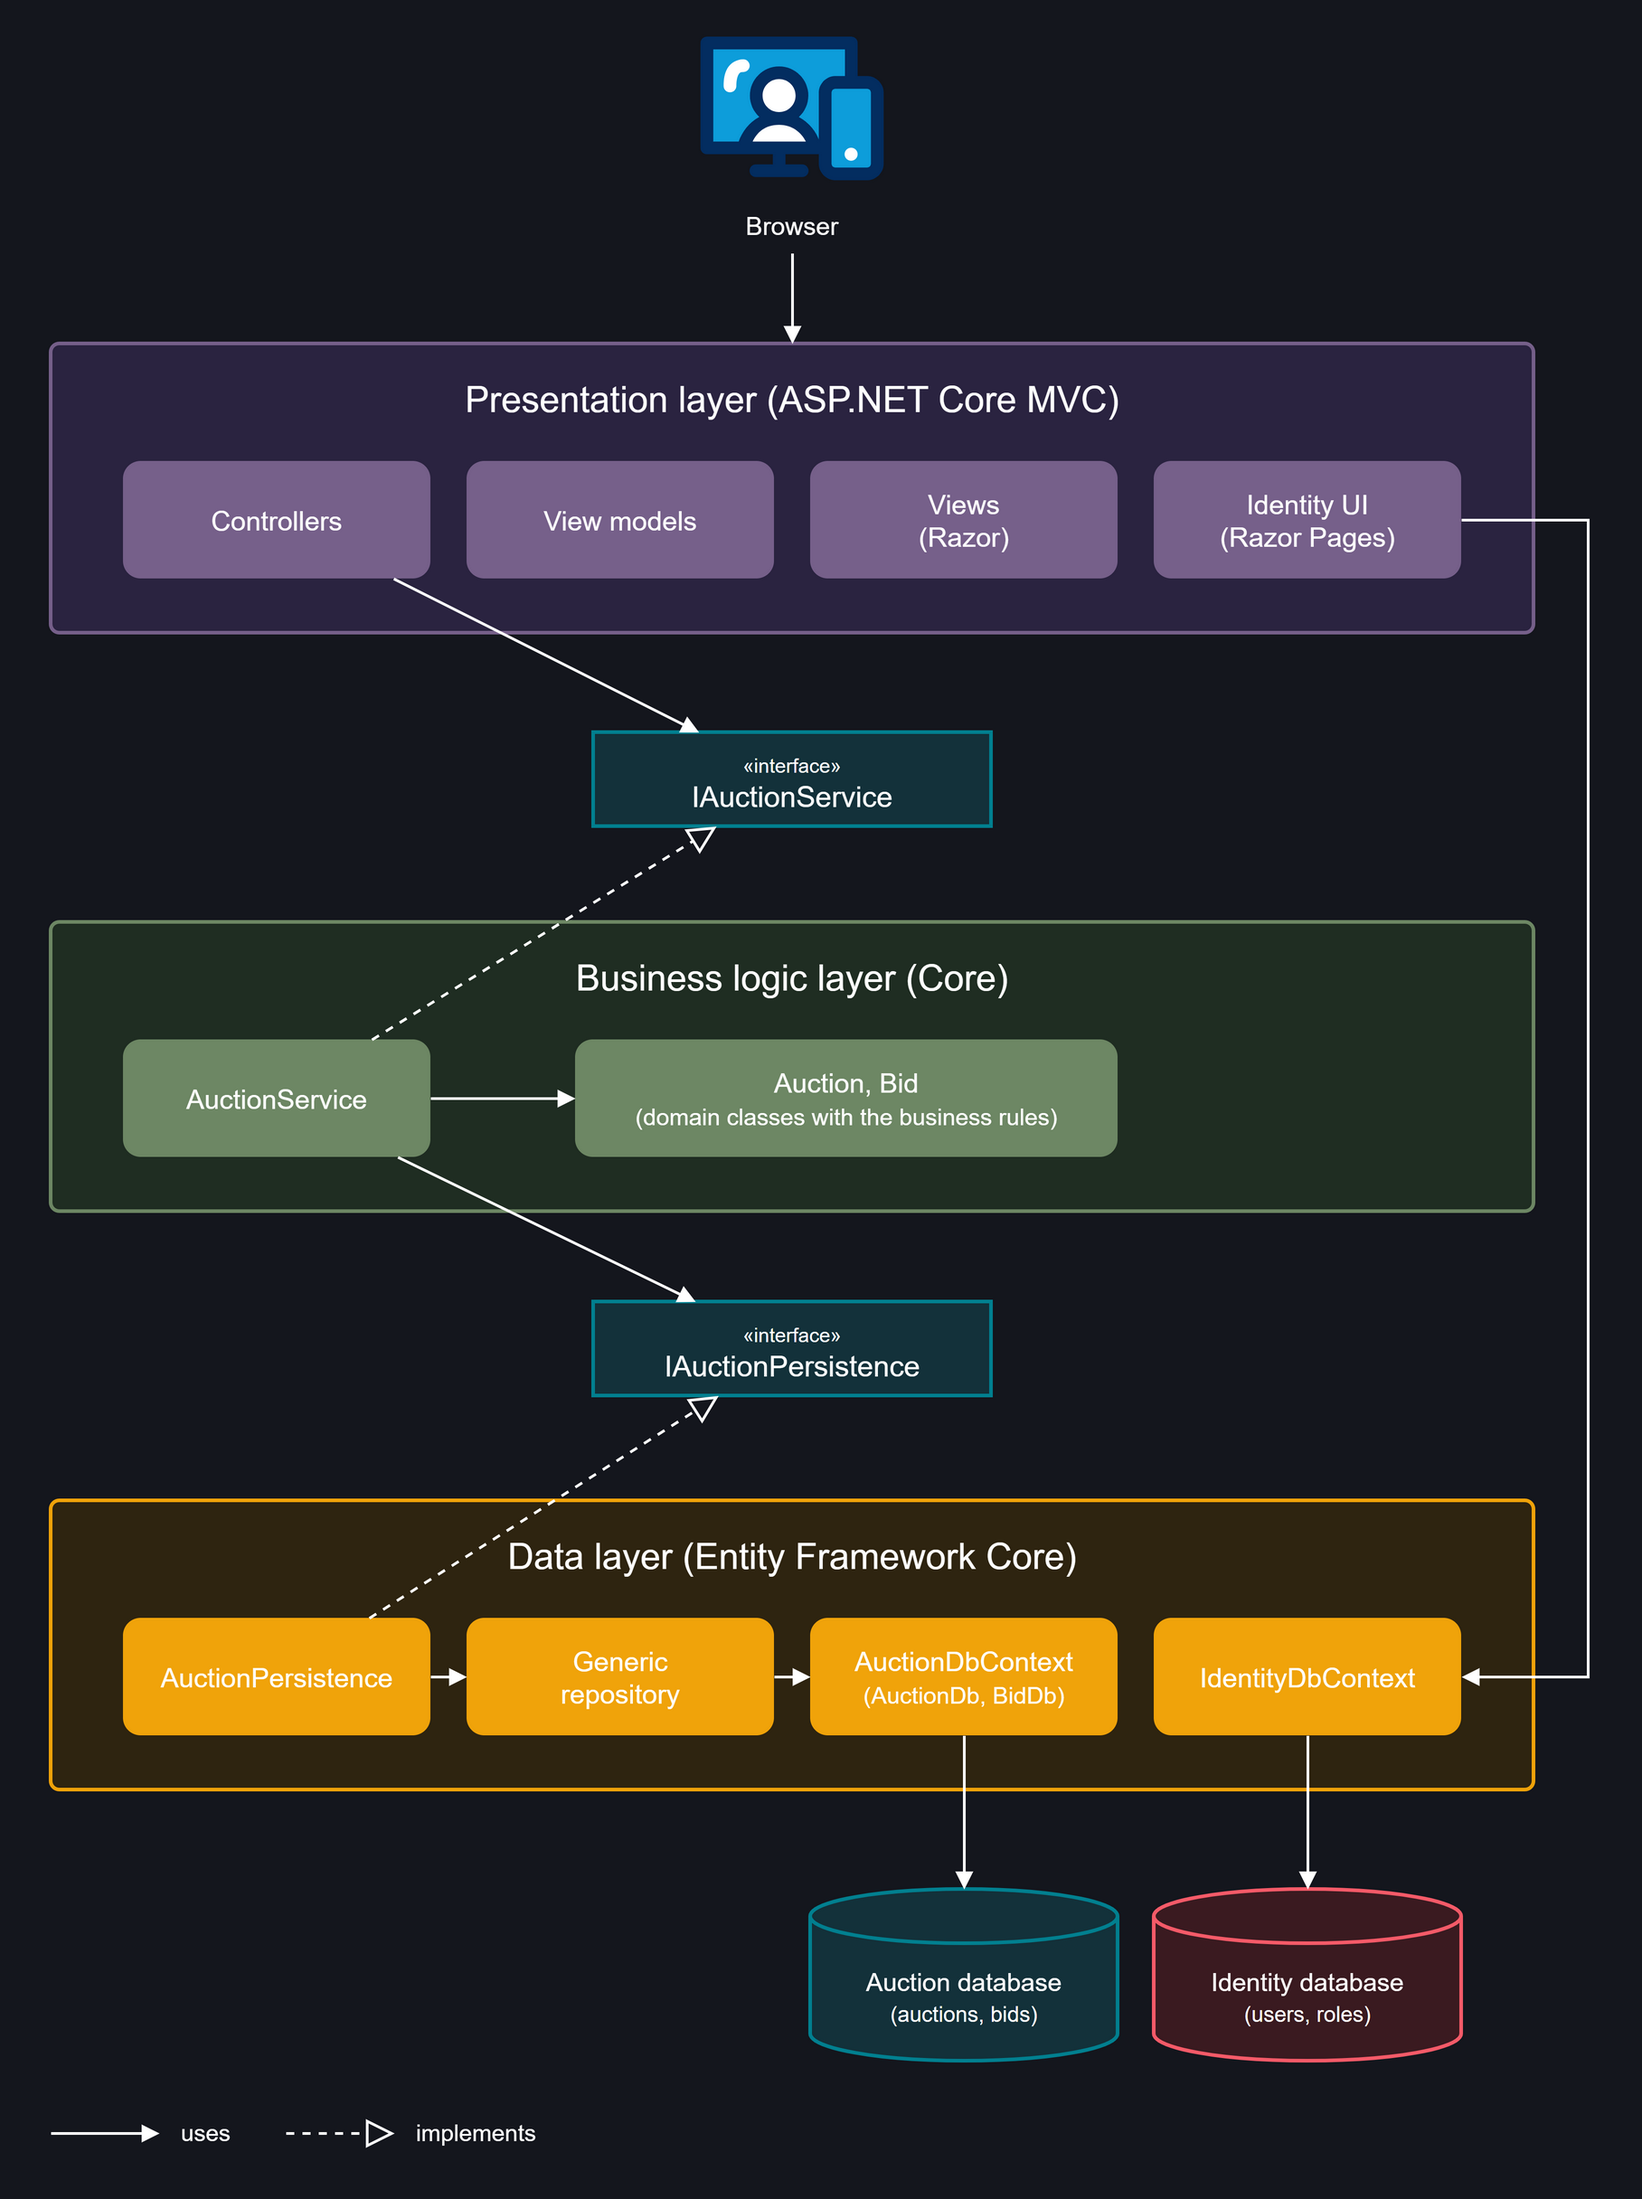
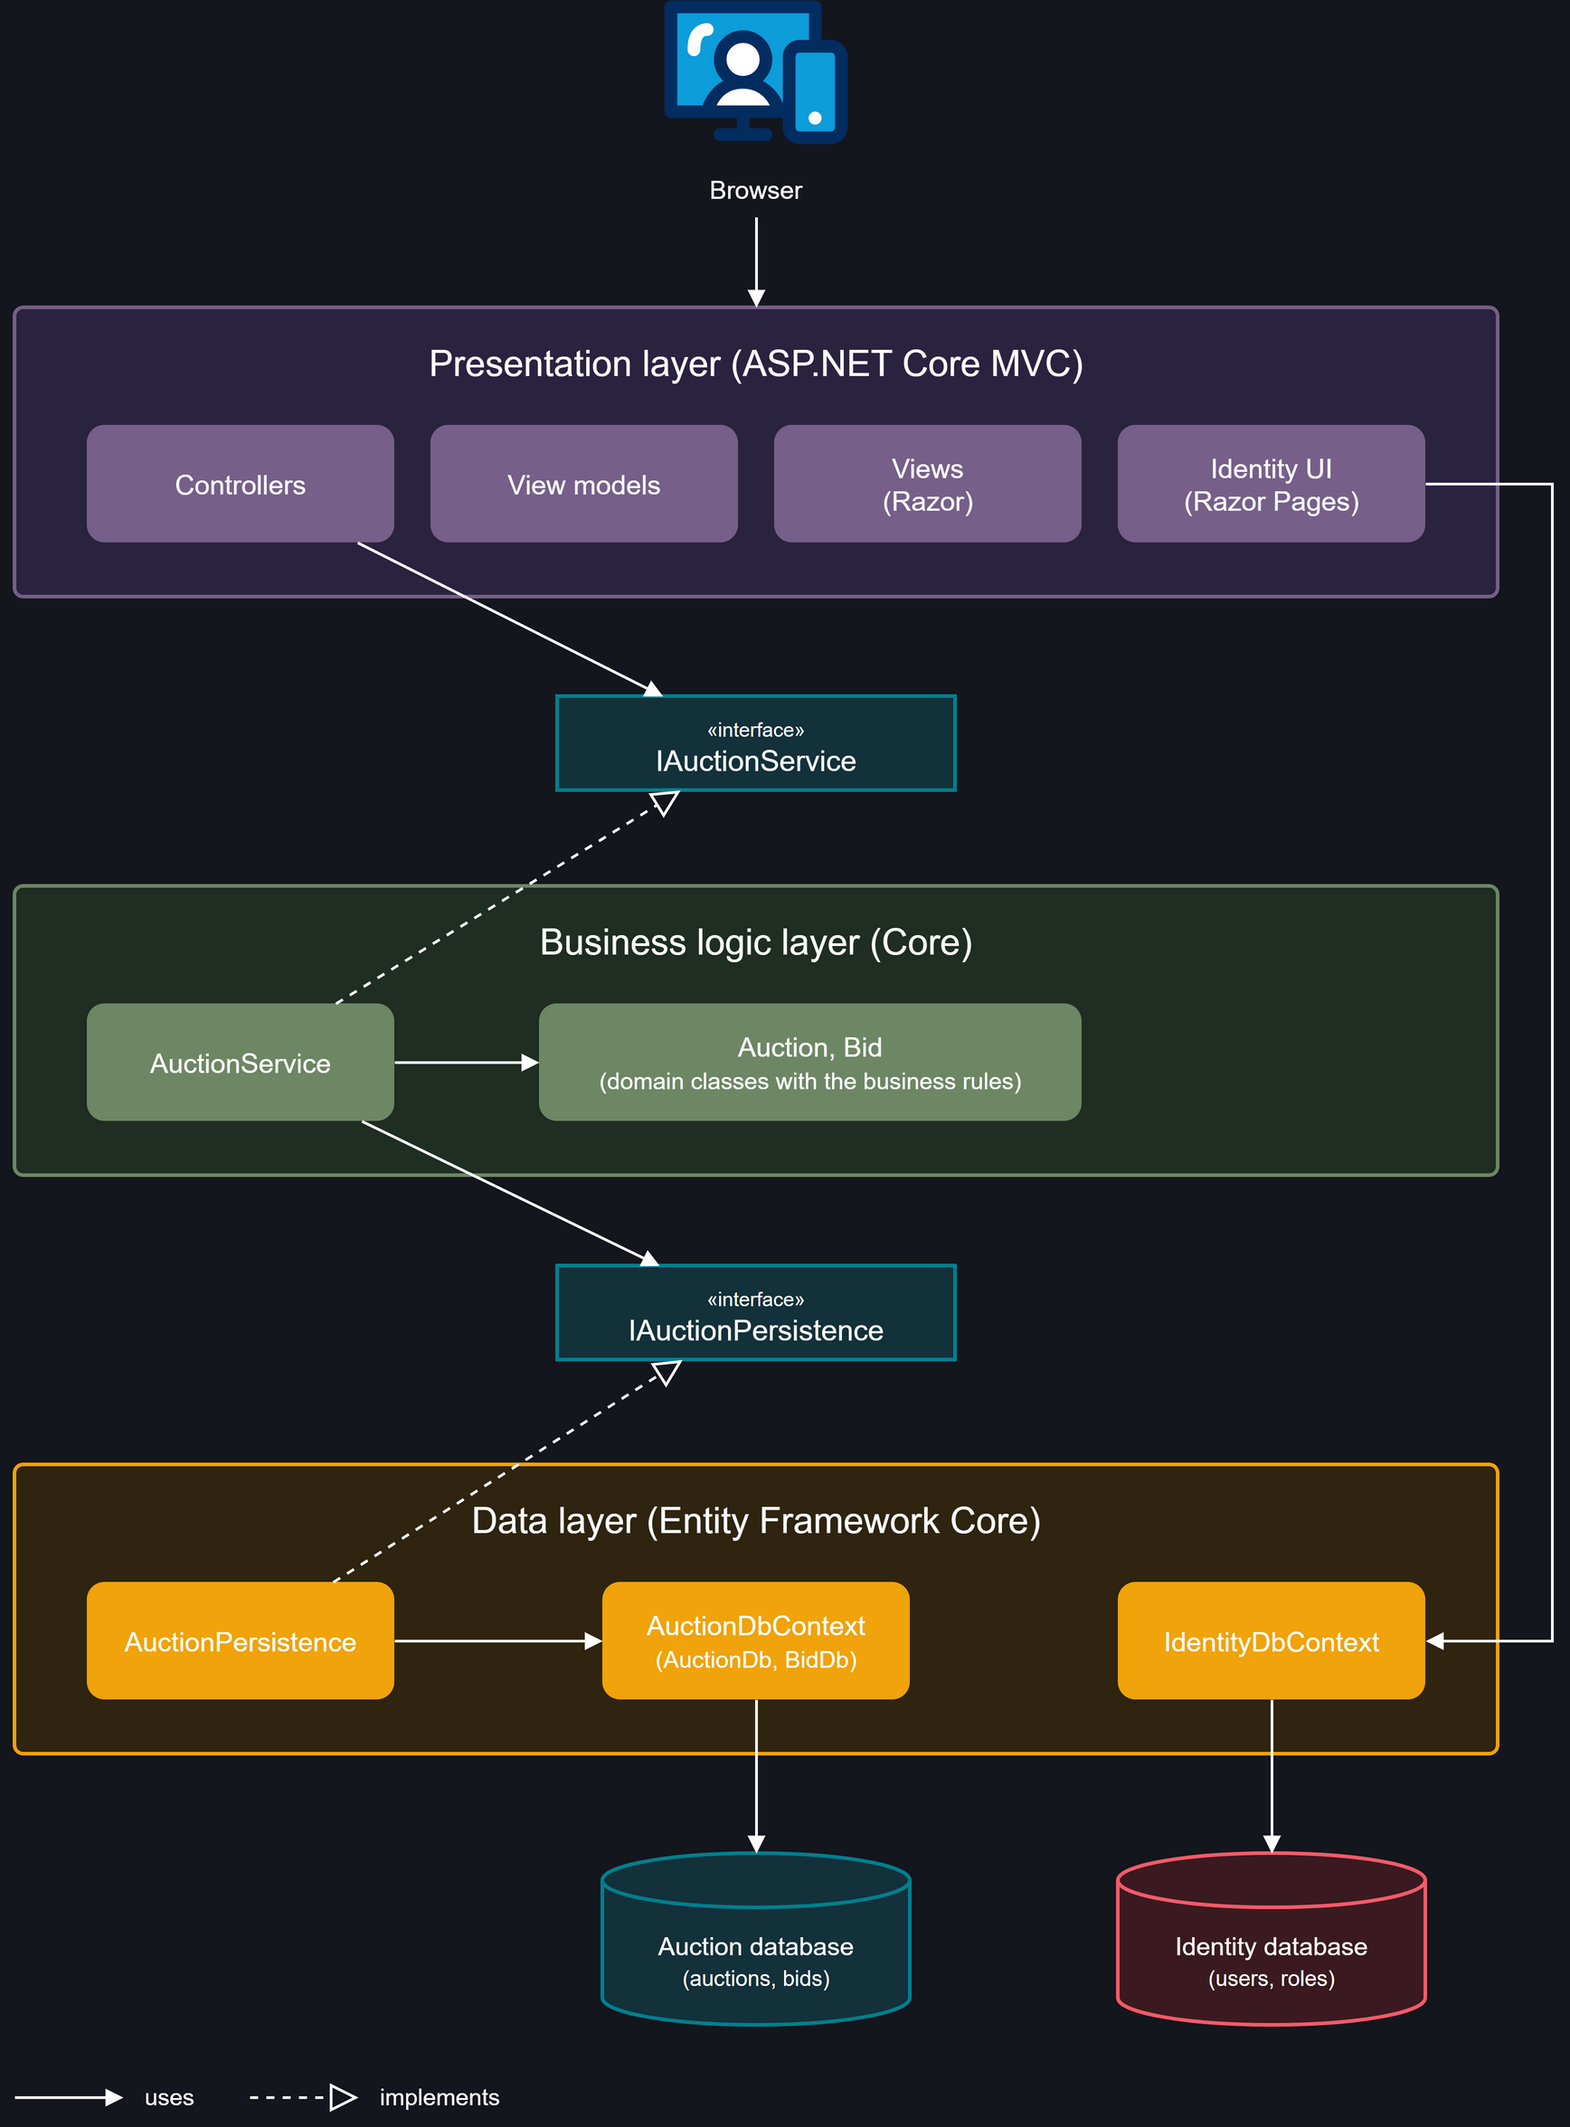
Sync README and diagrams with the code

Changed region(s): [[0.0, 0.0, 0.9954, 0.9622], [0.2177, 0.9622, 0.3111, 0.9932], [0.0622, 0.9622, 0.1244, 0.9932]]

diff --git a/README.md b/README.md
@@ -26,15 +26,19 @@ Each layer only calls the layer directly below it, through an interface.
 
 ```
 Auction-webapp/
-├── docs/                       Architecture and database diagrams
+├── docs/                       Architecture and database diagrams, database setup script
 ├── AuctionApp/
+│   ├── Areas/Identity/Pages/   Layout shim so the Identity UI pages use the app layout
 │   ├── Controllers/            AuctionsController, HomeController
 │   ├── Core/                   Auction, Bid, AuctionException, AuctionService
 │   │   └── Interfaces/         IAuctionService, IAuctionPersistence
-│   ├── Models/Auctions/        View models: AuctionVm, AuctionDetailsVm etc..
-│   ├── Persistence/            AuctionDb, BidDb, AuctionDbContext, AuctionPersistence
-│   ├── Views/Auctions/         Index, Details, Create, Edit, MyBids, Won
-│   ├── appsettings.json        Connection strings for the two databases
+│   ├── Data/                   AuctionDb, BidDb, AuctionDbContext, AuctionPersistence, AppIdentityDbContext
+│   │   └── Migrations/Identity EF Core migrations for the Identity database
+│   ├── Migrations/             EF Core migrations for the auction database
+│   ├── Models/Auctions/        View models: AuctionVm, AuctionDetailsVm, CreateAuctionVm, ...
+│   ├── Views/                  Auctions (Index, Details, Create, Edit, MyBids, Won), Home, Shared
+│   ├── wwwroot/css/site.css    Styling on top of Bootstrap
+│   ├── appsettings.json        Connection strings for the two databases (password in user secrets)
 │   └── Program.cs              Dependency injection and request pipeline
 └── AuctionApp.sln
 ```
@@ -45,8 +49,22 @@ Auction-webapp/
 
 Two separate MySQL databases:
 
-- **Auction database**: auctions and bids, where each bid has a foreign key to its auction
-- **Identity database**: users and roles, managed by ASP.NET Core Identity
+- **Auction database** (`auctiondb`): auctions and bids, where each bid has a foreign key to its auction
+- **Identity database** (`identitydb`): users and roles, managed by ASP.NET Core Identity
+
+### Setup
+
+1. Run `docs/Databas.sql` as root in MySQL Workbench. It creates both databases and the `auctionapp` user. Replace `<lösenord>` with a password of your choice.
+2. Store the connection strings with that password in user secrets, from the `AuctionApp/AuctionApp` folder:
+   ```
+   dotnet user-secrets set "ConnectionStrings:AuctionDbConnection" "server=localhost;port=3306;database=auctiondb;user=auctionapp;password=<lösenord>;"
+   dotnet user-secrets set "ConnectionStrings:IdentityDbConnection" "server=localhost;port=3306;database=identitydb;user=auctionapp;password=<lösenord>;"
+   ```
+3. Create the tables:
+   ```
+   dotnet ef database update --context AuctionDbContext
+   dotnet ef database update --context AppIdentityDbContext
+   ```
 
 ## Contributors
 
